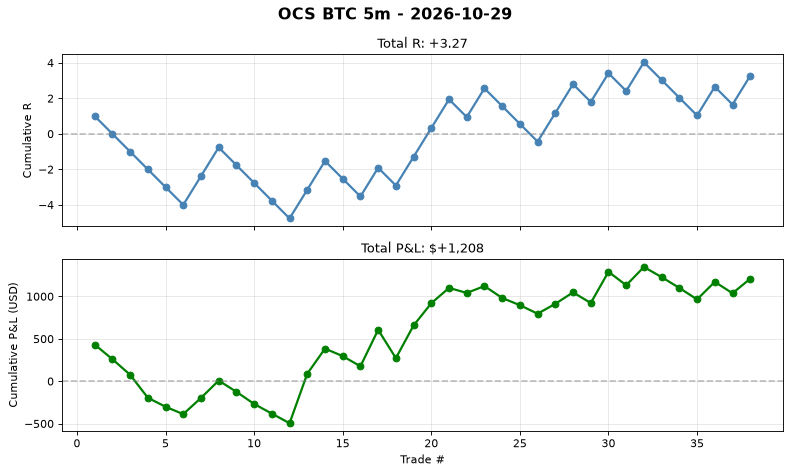
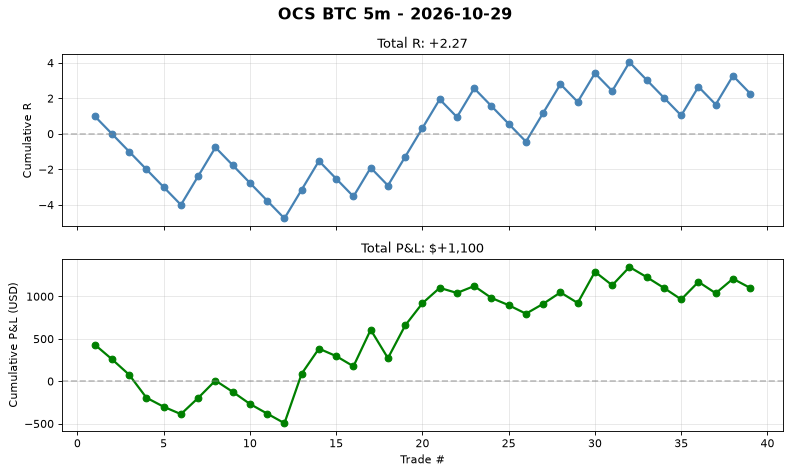
auto(ocs-btc): signal log 2026-10-28T17:22 trades=39

diff --git a/automation/reports/ocs_btc_5m/daily/2026-10-29.md b/automation/reports/ocs_btc_5m/daily/2026-10-29.md
@@ -2,4 +2,4 @@
 
 **No trades today.**
 
-Cumulative stats: 38 trades | WR 42.1% | avg R 0.086
+Cumulative stats: 39 trades | WR 41.0% | avg R 0.058
